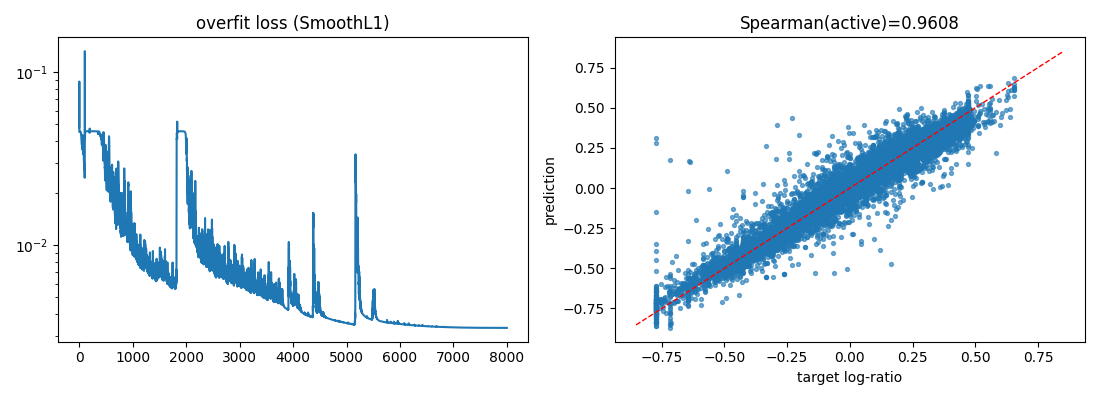
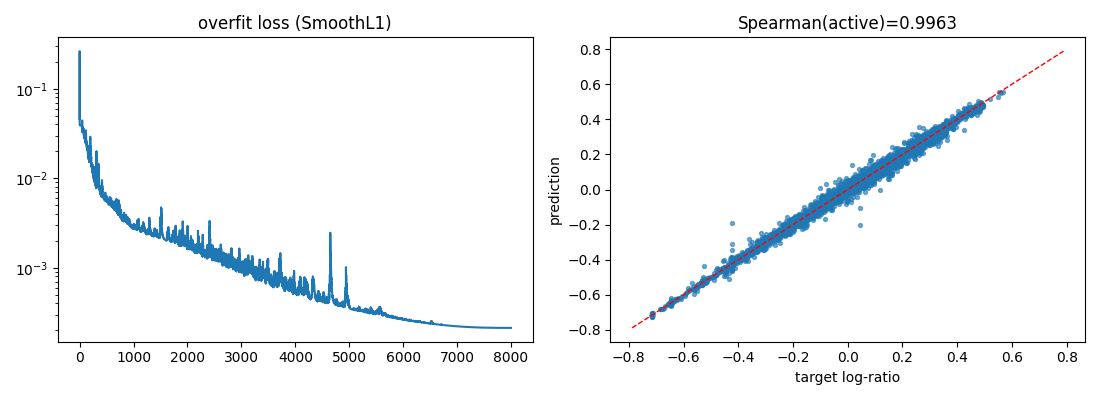
clean-v1 ⑧⑨⑩: 8-object overfit PASS(loss ratio 0.46%, Spearman 0.996)
- 中位带确定性选样(8 对象 4398 charts); 特征 17 维; d=128+cosine lr
- sanity_256 脚本; overfit PNG 入 latest_gallery
- gitignore core dump(崩溃 worker 曾遗留 18GB core, 已阻断入库)

diff --git a/MeshUV/scripts/sanity_256.py b/MeshUV/scripts/sanity_256.py
@@ -1,0 +1,83 @@
+# -*- coding: utf-8 -*-
+"""256-object 小范围泛化 sanity: object/geometry-hash 级 split(75/12.5/12.5),
+train 训练 -> val/test 报告 masked loss + active-Spearman(不做调参搜索)。"""
+import argparse
+import json
+import os
+import sys
+
+import numpy as np
+
+ROOT = os.path.dirname(os.path.dirname(os.path.abspath(__file__)))
+sys.path.insert(0, os.path.join(ROOT, "src"))
+from meshuv.data.dataset import CleanDataset, object_splits  # noqa: E402
+from meshuv.data.collate import collate  # noqa: E402
+from meshuv.model.student_v0 import StudentV0  # noqa: E402
+from meshuv.training.trainer import train, spearman  # noqa: E402
+
+DATA_ROOT = os.environ.get("MESHUV_DATA_ROOT", os.path.join(ROOT, "datasets"))
+
+
+def evaluate(model, items, device):
+    import torch
+    b = collate(items)
+    X = torch.as_tensor(b["features"], device=device)
+    m = torch.as_tensor(b["valid"], device=device)
+    with torch.no_grad():
+        pred = model(X, b["object_ranges"], m).cpu().numpy()
+    mn, y = b["valid"], b["target"]
+    act = mn & (np.abs(y) > 1e-4)
+    return dict(loss=float(np.mean((pred[mn] - y[mn]) ** 2)),
+                spearman_active=round(spearman(pred[act], y[act]), 4),
+                n_objects=len(items), n_charts=int(mn.sum()))
+
+
+def main():
+    import matplotlib
+    matplotlib.use("Agg")
+    import matplotlib.pyplot as plt
+    import torch
+    ap = argparse.ArgumentParser()
+    ap.add_argument("--dataset", default="processed/clean_v1")
+    ap.add_argument("--steps", type=int, default=6000)
+    a = ap.parse_args()
+    root = os.path.join(DATA_ROOT, a.dataset)
+    torch.manual_seed(3)
+    sp = object_splits(root)
+    json.dump(sp, open(f"{root}/splits.json", "w"), indent=1)
+    ds = {k: CleanDataset(root, object_ids=v) for k, v in sp.items()}
+    print({k: len(v) for k, v in sp.items()})
+    batch = collate([ds["train"][i] for i in range(len(ds["train"]))])
+    dev = "cuda" if torch.cuda.is_available() else "cpu"
+    model = StudentV0(d=128)
+    r = train(model, batch, steps=a.steps, lr=2e-3, device=dev, log_every=1000)
+    out = dict(splits={k: len(v) for k, v in sp.items()},
+               train=dict(loss_last=round(r["loss_last"], 6),
+                          spearman_active=round(r["spearman_active"], 4)))
+    for split in ("val", "test"):
+        items = [ds[split][i] for i in range(len(ds[split]))]
+        out[split] = evaluate(model, items, dev)
+    json.dump(out, open(f"{ROOT}/reports/sanity_256.json", "w"), indent=1)
+    # 可视化: val 第一个对象 target vs pred
+    items = [ds["val"][i] for i in range(min(1, len(ds["val"])))]
+    if items:
+        from meshuv.visualization import pipeline_views as V
+        import torch as T
+        b = collate(items)
+        with T.no_grad():
+            pred = model(T.as_tensor(b["features"], device=dev),
+                         b["object_ranges"],
+                         T.as_tensor(b["valid"], device=dev)).cpu().numpy()
+        fig = plt.figure(figsize=(13, 4.5))
+        V.show_target(items[0], fig.add_subplot(1, 3, 1))
+        V.show_prediction(items[0], pred, fig.add_subplot(1, 3, 2))
+        V.show_charts(items[0], fig.add_subplot(1, 3, 3))
+        plt.tight_layout()
+        plt.savefig(f"{ROOT}/reports/latest_gallery/sanity_val_example.png",
+                    dpi=90)
+    print(json.dumps(out, indent=1))
+    print("SANITY: DONE")
+
+
+if __name__ == "__main__":
+    main()

diff --git a/MeshUV/scripts/overfit.py b/MeshUV/scripts/overfit.py
@@ -32,7 +32,15 @@ def main():
                                                                    a.dataset)
     torch.manual_seed(3)
     ds = CleanDataset(root)
-    items = [ds[i] for i in range(min(a.n, len(ds)))]
+    # 确定性选 8 个 chart 数最接近中位数的对象(overfit 验证可训练性,
+    # 非容量压力测试; 巨兽对象留给 256 sanity)
+    import json as _j
+    counts = [( _j.load(open(f"{root}/objects/{o}/manifest.json"))["n_charts"], o)
+              for o in ds.ids]
+    med = sorted(c for c, _ in counts)[len(counts) // 2]
+    chosen = [o for _, o in sorted(counts, key=lambda t: (abs(t[0] - med), t[1]))][:a.n]
+    print("selected(median-band):", chosen)
+    items = [ds[ds.ids.index(o)] for o in sorted(chosen)]
     batch = collate(items)
     print(f"objects={len(items)} charts={len(batch['features'])} "
           f"valid={int(batch['valid'].sum())}")